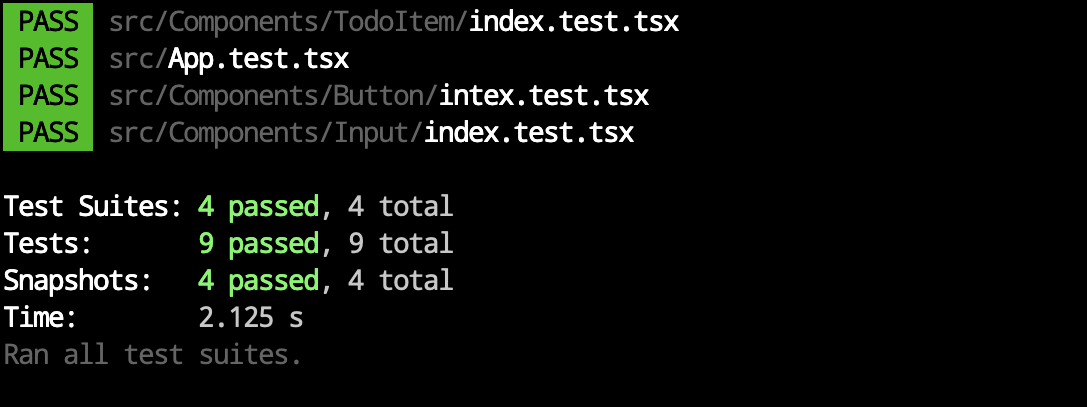
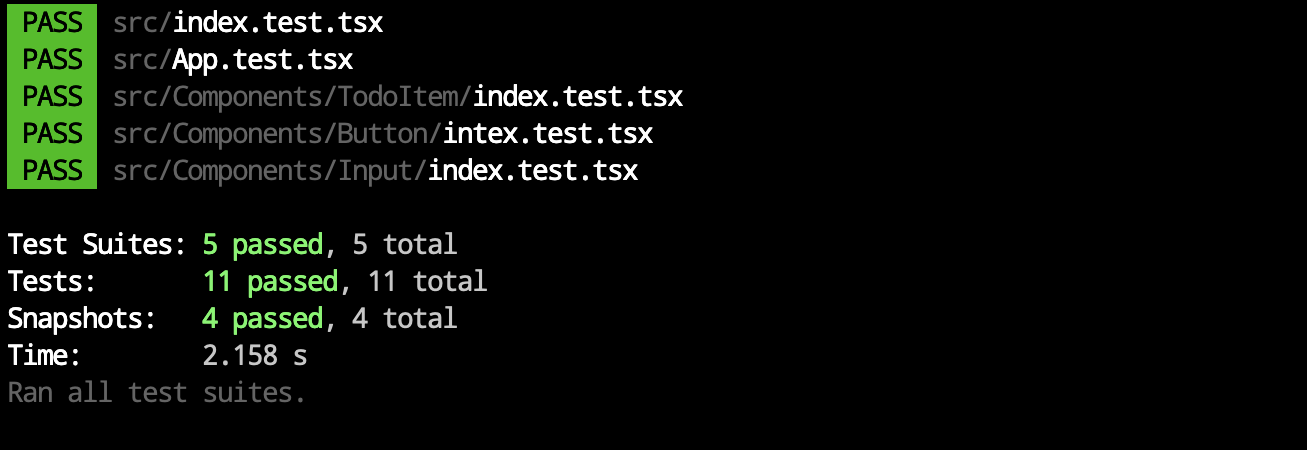
todo-list: Root Test & Code Coverage

Changed region(s): [[0.0, 0.0, 0.6375, 0.4423], [0.0, 0.4717, 0.425, 0.914]]

diff --git a/hands-on-todo-list/src/index.test.tsx b/hands-on-todo-list/src/index.test.tsx
@@ -1,0 +1,27 @@
+import React from 'react';
+import ReactDOM from 'react-dom';
+import App from './App';
+
+// Mocks react-dom and its render method, so that we can assert
+// that render is called with <App /> and HTML element with id = root
+jest.mock('react-dom', () => ({ render: jest.fn() }));
+
+describe('ReactDOM', () => {
+  it('renders with App and root div', () => {
+    // Create and append to document body and HTML element with id = root
+    const root = document.createElement('div');
+    root.id = 'root';
+    document.body.appendChild(root);
+
+    // Requires index.tsx so that react-dom render method is called
+    require('./index.tsx');
+
+    // Asserts render was called with <App /> and HTML element with id = root
+    expect(ReactDOM.render).toHaveBeenCalledWith(
+      <React.StrictMode>
+        <App />
+      </React.StrictMode>,
+      root,
+    );
+  });
+});

diff --git a/hands-on-todo-list/src/index.tsx b/hands-on-todo-list/src/index.tsx
@@ -2,16 +2,10 @@ import React from 'react';
 import ReactDOM from 'react-dom';
 import './index.css';
 import App from './App';
-import reportWebVitals from './reportWebVitals';
 
 ReactDOM.render(
   <React.StrictMode>
     <App />
   </React.StrictMode>,
-  document.getElementById('root')
+  document.getElementById('root'),
 );
-
-// If you want to start measuring performance in your app, pass a function
-// to log results (for example: reportWebVitals(console.log))
-// or send to an analytics endpoint. Learn more: https://bit.ly/CRA-vitals
-reportWebVitals();

diff --git a/hands-on-todo-list/README.md b/hands-on-todo-list/README.md
@@ -4,19 +4,22 @@
 
 ```bash
 # Install Dependencies
-yarn install # or | npm install
+yarn install
+# or | npm install
 
 # Run Unit Test
-yarn test    # or | npm run test
+yarn test
+# or | npm run test
 
 # Run Code Coverage Check
-yarn test --coverage # or | npm run test -- --coverage
+yarn test --coverage --watchAll
+# or | npm run test -- --coverage --watchAll
 ```
 
-- (sample) unit test result  
+- Unit Test
   ![jest-unit-test.png](./history/jest-unit-test.png)
 
-- (sample) code coverage result  
+- Code Coverage
   ![jest-code-coverage.png](./history/jest-code-coverage.png)
 
 <details>
